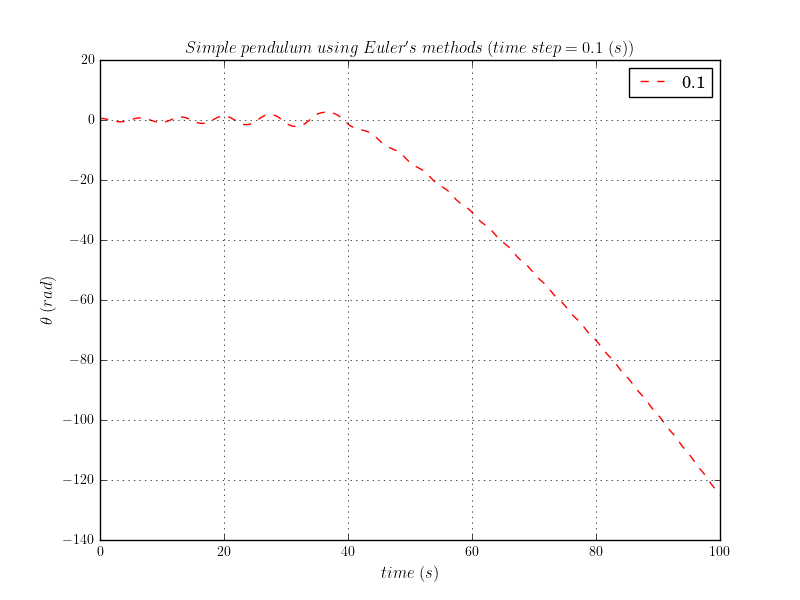
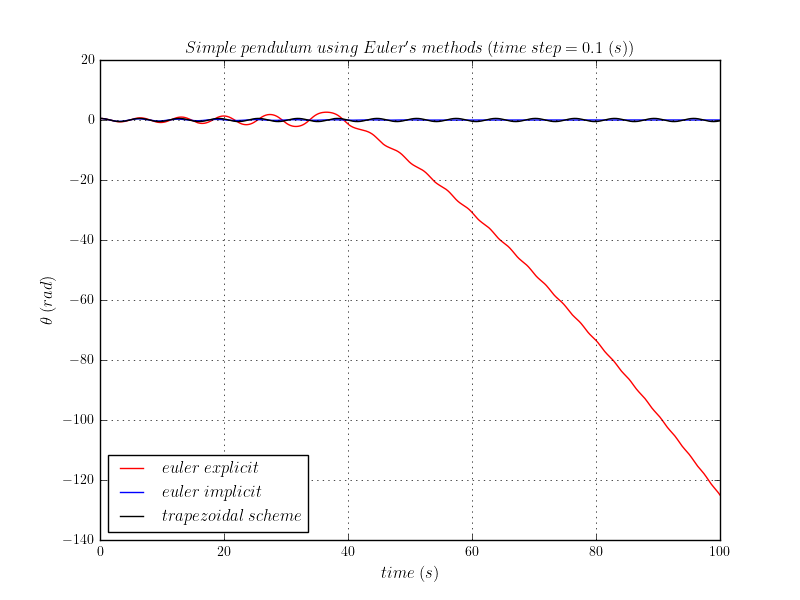
script to compute the angular displacement and angular velocity for a simple pendulum using euler's method

Changed region(s): [[0.125, 0.75, 0.4062, 0.9], [0.125, 0.09, 0.9062, 0.21]]

diff --git a/Endsem/Scripts/Program8/program8.py b/Endsem/Scripts/Program8/program8.py
@@ -6,8 +6,8 @@
 """ Script to compute the angular displacement and angular velocity for a simple
 pendulum using Euler's method """
 
-import numpy as np
 import matplotlib.pyplot as plt
+import numpy as np
 
 plt.style.use("classic")
 plt.rcParams["text.usetex"] = True
@@ -22,31 +22,56 @@ plt.rcParams.update(
     }
 )
 
-t_ = 100                    # time period
+t_ = 100  # time period (s)
 
-for n, dt in enumerate([0.01, 0.02, 0.05, 0.1, 0.2, 0.5, 1, 2, 5, 10, 20]):   # time step
-    
-    N = int(t_/dt)          # number of steps
-    print(n, dt, t_, N)
-    t = np.zeros(N+1)       # time vector
+for n, dt in enumerate([0.01, 0.02, 0.05, 0.1, 0.2, 0.5, 1, 2, 5, 10, 20]):  # time step
 
-    theta = np.ones(N+1)    # angular displacement
-    omega = np.ones(N+1)    # angular velocity
+    N = int(t_ / dt)  # number of steps
+    t = np.zeros(N + 1)  # time vector (s)
 
-    theta[0] = np.pi/6      # initial value of angular displacement
-    omega[0] = 0.0          # initial value of angular velocity
+    theta1 = np.ones(N + 1)  # angular displacement
+    omega1 = np.ones(N + 1)  # angular velocity
+
+    theta1[0] = np.pi / 6  # initial value of angular displacement (rad)
+    omega1[0] = 0.0  # initial value of angular velocity (1/s)
+
+    theta2 = np.ones(N + 1)  # angular displacement
+    omega2 = np.ones(N + 1)  # angular velocity
+
+    theta2[0] = np.pi / 6  # initial value of angular displacement (rad)
+    omega2[0] = 0.0  # initial value of angular velocity (1/s)
+
+    theta3 = np.ones(N + 1)  # angular displacement
+    omega3 = np.ones(N + 1)  # angular velocity
+
+    theta3[0] = np.pi / 6  # initial value of angular displacement (rad)
+    omega3[0] = 0.0  # initial value of angular velocity (1/s)
 
     for k in range(0, N):
 
-        t[k+1] = t[k] + dt
+        t[k + 1] = t[k] + dt
 
         # forward euler
-        theta[k+1] = theta[k] + omega[k] * dt
-        omega[k+1] = omega[k] - np.sin(theta[k]) * dt
+        theta1[k + 1] = theta1[k] + omega1[k] * dt
+        omega1[k + 1] = omega1[k] - np.sin(theta1[k]) * dt
+
+        # backward euler
+        theta2[k + 1] = theta2[k] + (omega2[k] - np.sin(theta2[k]) * dt) * dt
+        omega2[k + 1] = omega2[k] - np.sin(theta2[k] + omega2[k] * dt) * dt
+
+        # trapezoidal scheme
+        theta3[k + 1] = theta3[k] + (dt / 2) * (
+            omega3[k] + omega3[k] - np.sin(theta3[k]) * dt
+        )
+        omega3[k + 1] = omega3[k] - (dt / 2) * (
+            np.sin(theta3[k]) + np.sin(theta3[k] + dt * omega3[k])
+        )
 
     figure, ax = plt.subplots()
-    ax.plot(t, theta, "r--", label="{}".format(dt))
+    ax.plot(t, theta1, "r-", label=r"$euler\ explicit$")
+    ax.plot(t, theta2, "b-", label=r"$euler\ implicit$")
+    ax.plot(t, theta3, "k-", label=r"$trapezoidal\ scheme$")
     ax.set(xlabel=r"$time\ (s)$", ylabel=r"$\theta\ (rad)$")
-    ax.set_title(r"$Simple\ pendulum\ using\ Euler's\ methods\ (time\ step = {}\ (s))$".format(dt)) 
-    ax.grid(True); ax.legend()
-    plt.savefig("program8{}.png".format(n)) 
+    ax.set_title(r"$Simple\ pendulum\ using\ Euler's\ methods\ (time\ step = {}\ (s))$".format(dt))
+    ax.grid(True); ax.legend(loc="best")
+    plt.savefig("program8{}.png".format(n))
